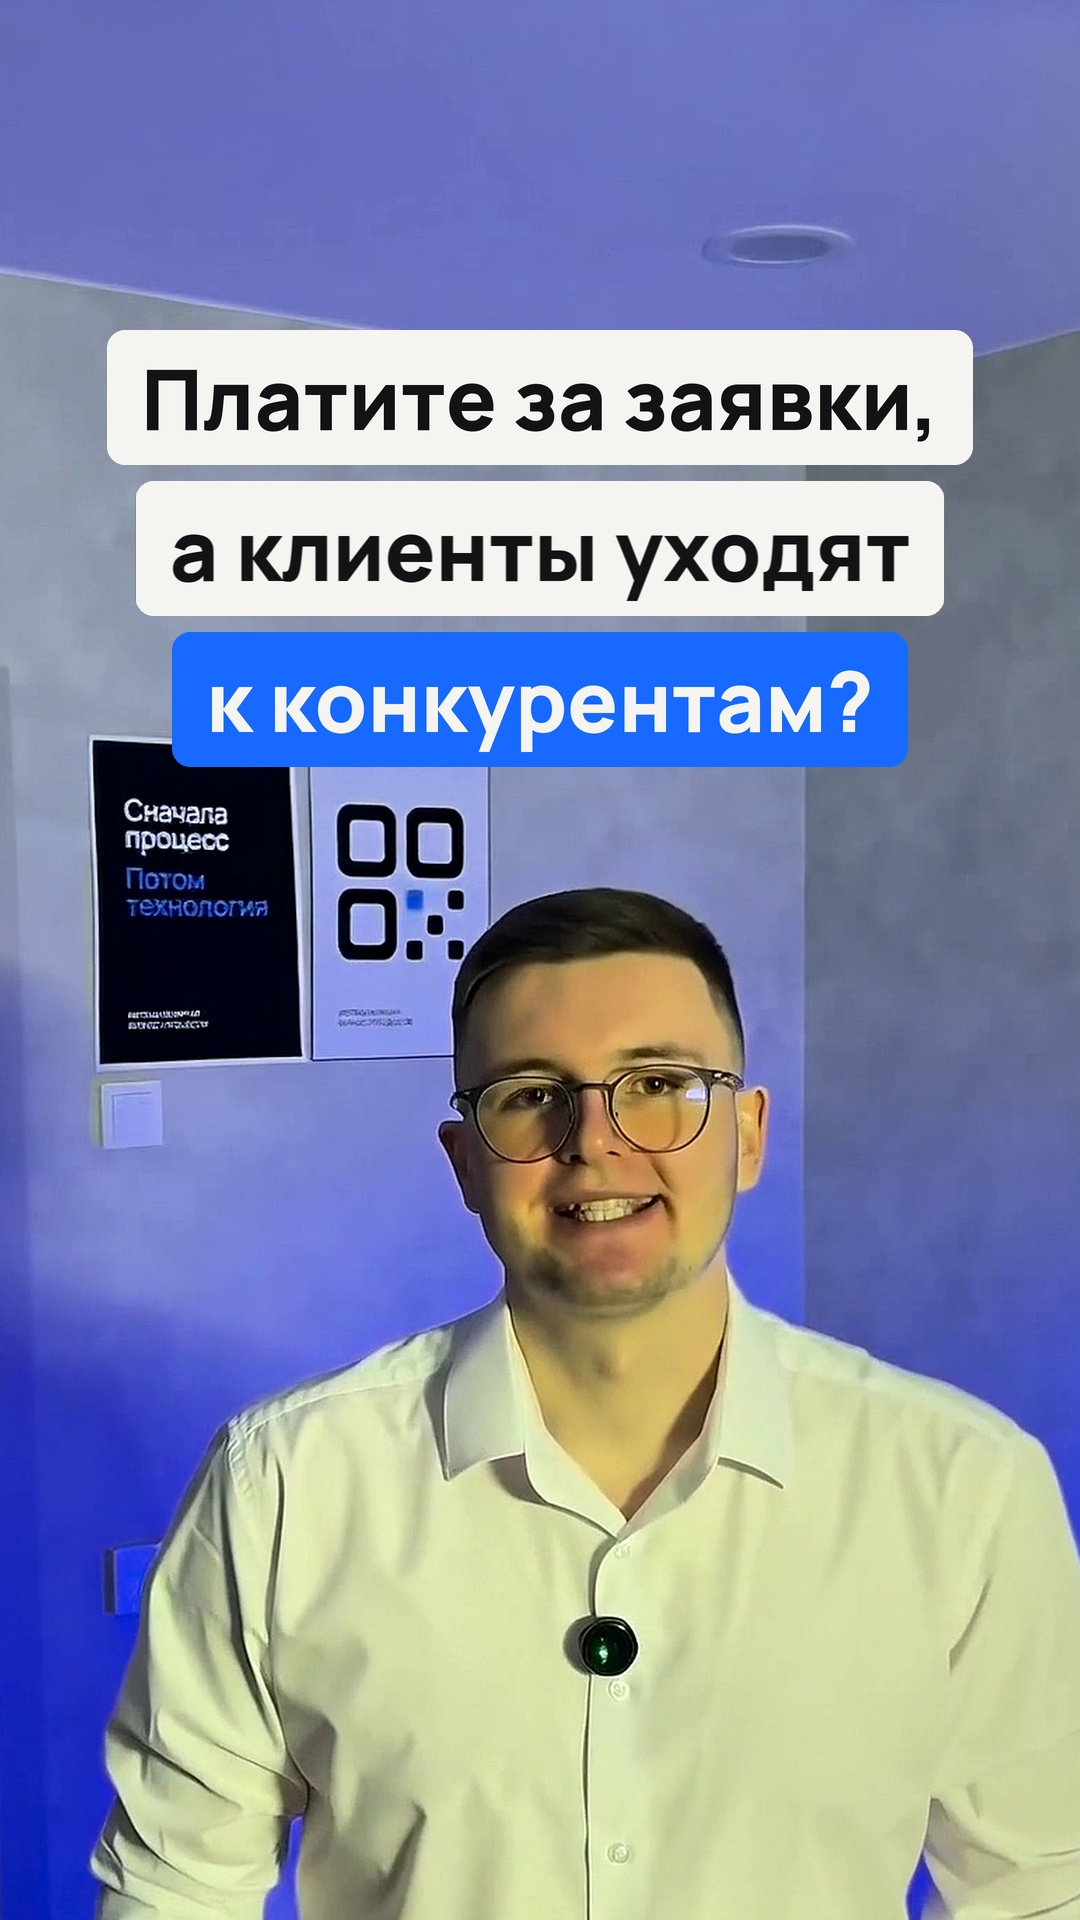
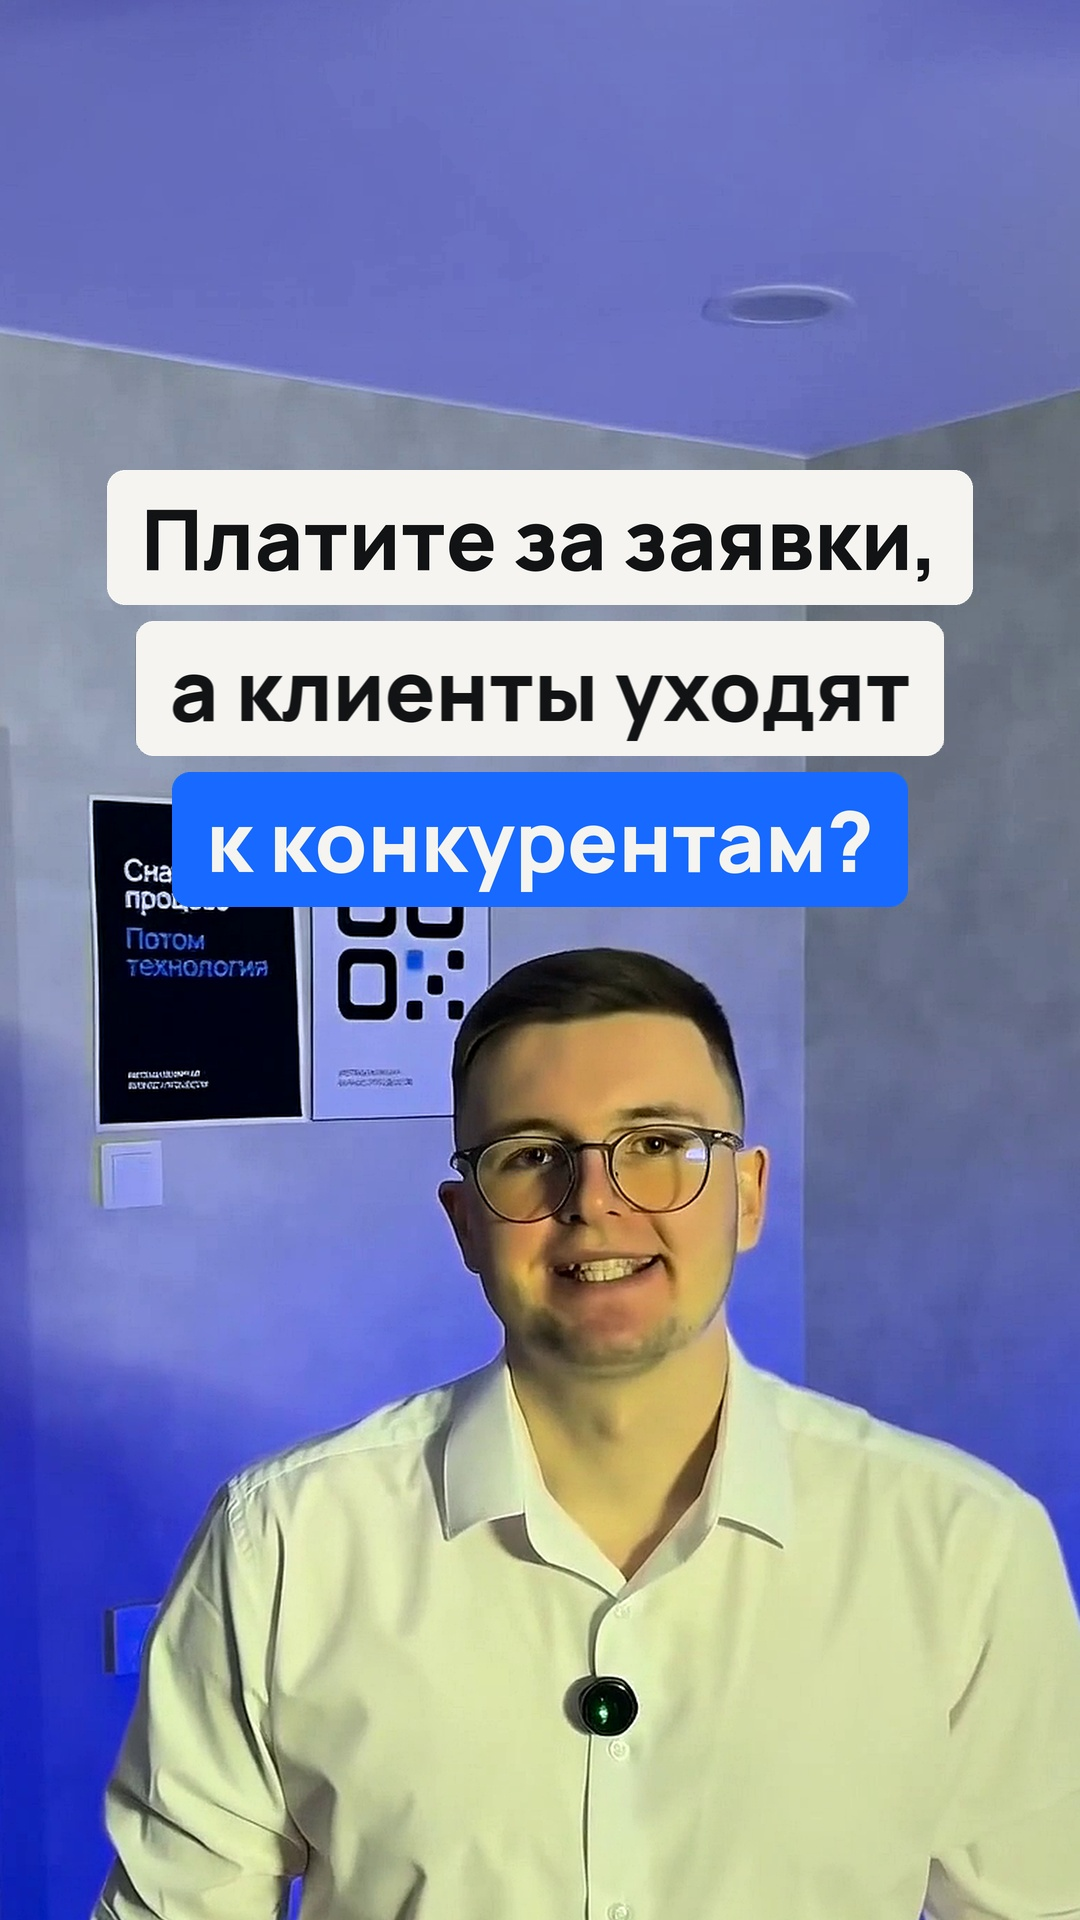
Reels: обложка — заголовок и лицо внутри центрального квадрата (превью в ленте)
Claude-Session: https://claude.ai/code/session_01TyNBTWbDAzSy9GwzCAGnGy

diff --git a/_tools/reels/cover.py b/_tools/reels/cover.py
@@ -6,7 +6,8 @@
 
 - `--t` — секунда исходника. Выбирать кадр с открытыми глазами и взглядом в камеру.
 - Строка со `*` в начале — синяя плашка (ключевая мысль). Обычно одна, последняя.
-- Текст стоит в зоне, которая видна и в ленте (кадр 4:5), и в сетке профиля (3:4): y ≈ 300…1600.
+- Заголовок целиком стоит в центральном квадрате 1080×1080 (y 420…1500): так ролик показывается в ленте,
+  а квадрат входит и в обрезки 4:5 и 3:4. Лицо — сразу под заголовком, тоже внутри квадрата.
 - `--face X Y` — где в исходнике 1080×1920 центр лица; `--zoom` — во сколько раз приблизить кадр.
 """
 import argparse, subprocess, io
@@ -14,7 +15,8 @@ import numpy as np, cv2
 from PIL import Image
 from reel import W, H, GRAPH, OFF, BLUE, plate, blit
 
-TOP = 330          # верх блока плашек: ниже шапки Instagram и обрезки 4:5 / 3:4
+SQ0, SQ1 = (H - W) // 2, (H + W) // 2      # центральный квадрат 1080×1080 — превью в ленте
+PAD = 50                                    # отступ заголовка от верха квадрата
 
 
 def frame(path, t):
@@ -39,14 +41,15 @@ def bar(text, blue, size):
         size -= 2
 
 
-def render(src, lines, size=84, zoom=1.4, face=(550, 950), at=(540, 1130)):
+def render(src, lines, size=84, zoom=1.4, face=(550, 950), at=(540, 1190)):
     fr = camera(src, zoom, face, at)
-    y = TOP
+    y = SQ0 + PAD
     for ln in lines:
         blue = ln.startswith("*")
         b = bar(ln.lstrip("*"), blue, size)
         blit(fr, b, W / 2 - b.shape[1] / 2, y)
         y += b.shape[0] + 16
+    assert y - 16 <= SQ1 - PAD, "заголовок не влезает в квадрат — сократите текст или уменьшите --size"
     return fr
 
 

diff --git a/_tools/reels/example-ai-agent-1080/SOURCE.md b/_tools/reels/example-ai-agent-1080/SOURCE.md
@@ -37,7 +37,7 @@
 - `cover-2.jpg` — «Клиент оставил заявку / **и ушёл к конкуренту**»
 - `cover-3.jpg` — «Теряете клиентов / **не из-за рекламы**»
 
-Текст стоит в зоне, которая видна и в ленте (4:5), и в сетке профиля (3:4). Собрать заново или с другим текстом:
+Заголовок и лицо целиком в центральном квадрате 1080×1080 (y 420…1500) — так Instagram показывает ролик в ленте; квадрат входит и в обрезки 4:5 и 3:4. Собрать заново или с другим текстом:
 ```bash
 python3 cover.py raw.mp4 --t 0.8 --line "Платите за заявки," --line "а клиенты уходят" --line "*к конкурентам?" --out cover.jpg
 ```
